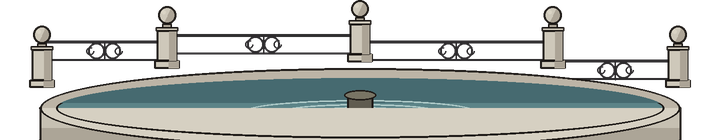
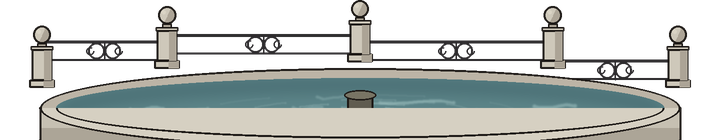
Dipinge l'acqua della fontana di Padova (#288 passo 3d)
Claude-Session: https://claude.ai/code/session_01Bf1d2rFJnp9n4pFf7DSqn4

diff --git a/src/shared/stages.ts b/src/shared/stages.ts
@@ -509,6 +509,9 @@ export const STAGES: Record<string, StageSpec> = {
           bici: { file: "bici.png", frames: 4 },
           bus: { file: "bus.png", frames: 1 },
           tram: { file: "tram.png", frames: 1 },
+          // L'acqua della fontana (#288 passo 3d): lo zampillo a riposo e il getto acceso
+          zampillo: { file: "zampillo.png", frames: 6 },
+          getto: { file: "getto.png", frames: 4 },
         },
         birds: { y: 40, parallax: 0.2, everyMs: 14000 },
         // Sulle punte delle lastre delle statue e sul cornicione del palazzo

diff --git a/tools/arene/vita.py b/tools/arene/vita.py
@@ -711,6 +711,84 @@ def traffic_sheets():
     sheet([tram()], OUT, "tram.png")
 
 
+# --- l'acqua della fontana (#288 passo 3d): lo zampillo a riposo e il getto alto, dipinti e semitrasparenti ---
+FOAM = (244, 250, 250)
+AQUA = (196, 226, 228)
+
+
+def _water_column(q, cx, base, h, w, phase, seed):
+    """Una colonna d'acqua: filetti che ondeggiano, si gonfiano e si spezzano, il cuore più chiaro, la corona
+    che si apre in cima e ricade in filetti e gocce dentro una nebbiolina, e la schiuma irregolare dove l'acqua
+    torna nella vasca."""
+    rng = random.Random(seed)
+    col = q.mask()
+    for k in range(12):
+        u = (k / 11 - 0.5)
+        width = w * rng.uniform(0.05, 0.12)
+        for j in range(16):  # ogni filetto è fatto di tratti con lo spessore che cambia: l'acqua non è un tubo
+            v0, v1 = j / 16, (j + 1) / 16
+            if rng.random() < 0.08:
+                continue  # un filetto che si spezza
+            wob = math.sin(v0 * 11 + phase * math.tau + k * 1.3)
+            p0 = (cx + w * (0.5 - 0.25 * v0) * u + wob * 1.4, base - h * v0)
+            p1 = (cx + w * (0.5 - 0.25 * v1) * u + math.sin(v1 * 11 + phase * math.tau + k * 1.3) * 1.4, base - h * v1)
+            q.stroke(col, [p0, p1], width * (0.7 + 0.6 * abs(math.sin(v0 * 7 + k + phase * 5))))
+    q.fill(q.soften(col, 0.5), AQUA, 0.6)
+    core = q.mask()
+    for j in range(10):
+        v0, v1 = j / 10, (j + 1) / 10
+        q.stroke(core, [(cx - w * 0.04 + math.sin(v0 * 9 + phase * 6) * 0.8, base - h * v0), (cx - w * 0.04 + math.sin(v1 * 9 + phase * 6) * 0.8, base - h * v1)], w * (0.08 + 0.05 * math.sin(v0 * 13 + phase * 7)))
+    q.fill(q.soften(core, 0.8), FOAM, 0.9)
+    # la nebbiolina attorno alla colonna e alla corona
+    mist = q.mask()
+    q.ellipse(mist, cx - w * 0.9, base - h - 14, cx + w * 0.9, base - h + 22)
+    q.poly(mist, [(cx - w * 0.6, base), (cx + w * 0.6, base), (cx + w * 0.3, base - h), (cx - w * 0.3, base - h)])
+    q.fill(q.soften(mist, 6), (255, 255, 255), 0.22)
+    # la corona: si apre a ombrello e ricade, filetti che si assottigliano
+    for k in range(14):
+        side = -1 if k % 2 else 1
+        reach = w * rng.uniform(0.5, 1.0)
+        fall = h * rng.uniform(0.1, 0.32)
+        top = (cx + side * 1.5, base - h)
+        pts = bezier(top, (cx + side * reach * 0.4, base - h - 7), (cx + side * reach * 0.9, base - h - 3), (cx + side * reach, base - h + fall), 12)
+        upto = int(len(pts) * (0.5 + 0.5 * ((phase + k * 0.13) % 1.0)))
+        m = q.mask()
+        for j in range(upto - 1):
+            q.stroke(m, [pts[j], pts[j + 1]], 2.2 * (1 - j / len(pts)) + 0.5)
+        q.fill(q.soften(m, 0.35), FOAM, 0.85)
+    for k in range(int(18 + w * 0.25)):  # gocce che cadono, un po' allungate
+        side = rng.choice((-1, 1))
+        u = (phase * 1.7 + k * 0.137) % 1.0
+        x = cx + side * w * rng.uniform(0.3, 0.95) * (0.4 + u * 0.6)
+        y = base - h + h * 0.9 * u * u
+        r = rng.uniform(0.6, 1.4) * (1 - 0.4 * u)
+        q.fill(q.soften(q.ellipse(q.mask(), x - r, y - r * 1.6, x + r, y + r * 1.2), 0.3), FOAM, 0.9 - 0.4 * u)
+    # la schiuma alla base: tante bolle unite e lisciate in una macchia irregolare
+    foam = q.mask()
+    for k in range(18):
+        fx = cx + rng.uniform(-w * 0.75, w * 0.75) + math.sin(phase * math.tau + k) * 1.2
+        r = rng.uniform(1.5, 4.0)
+        q.ellipse(foam, fx - r * 1.4, base - r * 1.6, fx + r * 1.4, base + 0.8)
+    foam = q.smooth(foam, 0.7)
+    q.fill(foam, FOAM, 0.85)
+    q.fill(q.inner_shadow(foam, 0, -1.5, 0.8), AQUA, 0.6)
+
+
+def fountain_water_sheets():
+    idle = []
+    for i in range(6):
+        q = Quadro(110, 96)
+        _water_column(q, 55, 92, 66, 42, i / 6, 3)
+        idle.append(q.result())
+    sheet(idle, OUT, "zampillo.png")
+    jet = []
+    for i in range(4):
+        q = Quadro(150, 350)
+        _water_column(q, 75, 344, 318, 70, i / 4, 7)
+        jet.append(q.result())
+    sheet(jet, OUT, "getto.png")
+
+
 if __name__ == "__main__":
     sheet([cloud(s) for s in range(1, 9)], OUT, "nuvole.png")
     sheet(gull_frames(), OUT, "gabbiano.png")
@@ -721,3 +799,4 @@ if __name__ == "__main__":
     umbrellas_sheet()
     bar_sheets()
     traffic_sheets()
+    fountain_water_sheets()

diff --git a/tools/arene/padova.py b/tools/arene/padova.py
@@ -1101,13 +1101,26 @@ def fountain_back():
     t.ellipse(cx - rx - 8, rim_y - ry - 5, cx + rx + 8, rim_y + ry + 5, fill=(214, 208, 194, 255), ink=True, width=1.1)
     t.chord(cx - rx - 8, rim_y - ry - 5, cx + rx + 8, rim_y + ry + 5, 180, 360, fill=(188, 180, 166, 255))
     t.ellipse(cx - rx - 8, rim_y - ry - 5, cx + rx + 8, rim_y + ry + 5, ink=True, width=1.1)
-    # l'acqua: verde acqua spento, l'ombra del bordo lontano, i riflessi chiari che il sole fa a strisce
-    t.ellipse(cx - rx, rim_y - ry, cx + rx, rim_y + ry, fill=WATER, ink=True, width=1.0)
-    t.chord(cx - rx, rim_y - ry, cx + rx, rim_y + ry, 190, 350, fill=WATER_S)
-    for k, (dx, dy, w) in enumerate(((-90, 4, 38), (-30, 8, 54), (40, 2, 30), (95, 7, 26), (-120, 9, 18))):
-        t.line([(cx + dx, rim_y + dy), (cx + dx + w, rim_y + dy)], fill=WATER_L, width=1.4 if k % 2 else 1.0)
-    for r_ in (24, 40, 58):  # cerchi che si allargano dove cade l'acqua
-        t.ellipse(cx - r_, rim_y + 2 - r_ * 0.1, cx + r_, rim_y + 2 + r_ * 0.1, ink=True, width=0.7, ink_col=(176, 204, 202, 255))
+    # l'acqua dipinta (#288): verde acqua spento, più scura sotto il bordo lontano, i riflessi del cielo spezzati
+    # dalle increspature, gli anelli d'onda interrotti attorno allo zampillo e la schiuma
+    from pittura import Quadro, wobble
+    q = Quadro(360, 70, origin=(780, 454))
+    wm = q.ellipse(q.mask(), cx - rx, rim_y - ry, cx + rx, rim_y + ry)
+    q.fill(wm, WATER)
+    q.fill(q.inner_shadow(wm, 0, 7, 3.5), WATER_S, 0.9)
+    rng = rand(61)
+    for k in range(16):  # riflessi a pennellate orizzontali, interrotte
+        y = rim_y - ry * 0.4 + rng.uniform(0, ry * 1.2)
+        x0 = cx + rng.uniform(-rx * 0.85, rx * 0.6)
+        ln = rng.uniform(10, 40)
+        pts = wobble([(x0 + ln * j / 6, y + math.sin(j) * 0.6) for j in range(7)], 0.5, k, closed=False)
+        q.fill(q.intersect(q.soften(q.stroke(q.mask(), pts, rng.uniform(0.8, 1.8)), 0.4), wm), WATER_L, rng.uniform(0.35, 0.8))
+    for r_ in (22, 38, 56, 78):  # anelli d'onda: archi spezzati, non cerchi
+        for j in range(6):
+            a0 = j / 6 * math.tau + r_ * 0.1
+            arc = [(cx + r_ * math.cos(a0 + i * 0.12), rim_y + 2 + r_ * 0.11 * math.sin(a0 + i * 0.12)) for i in range(5)]
+            q.fill(q.intersect(q.soften(q.stroke(q.mask(), arc, 0.7), 0.3), wm), (184, 212, 210), 0.5 - r_ / 200)
+    t.img.alpha_composite(q.img)
     # il bocchettone al centro, di bronzo scuro
     t.rect(cx - 6, rim_y - 6, cx + 6, rim_y + 2, fill=(96, 92, 80, 255), ink=True, width=0.9)
     t.ellipse(cx - 8, rim_y - 9, cx + 8, rim_y - 4, fill=(120, 116, 100, 255), ink=True, width=0.8)

diff --git a/docs/arene.md b/docs/arene.md
@@ -288,7 +288,7 @@ Facoltativo, solo grafica: elementi animati che fanno sembrare il posto abitato.
 | `bar: { x, y, parallax, tables, spacing }` | i tavolini di un bar (#278), da `x` verso destra ogni `spacing`: due persone per tavolino che bevono lo spritz e ogni tanto brindano, gli ombrelloni, il cameriere col vassoio e di sera le lucine |
 | `daycycle.lightLayers: [{ file, parallax }]`, `daycycle.lightProps: [{ file, x, y, scale? }]` | luci della notte precise (#288): immagini con solo i vetri accesi, grandi e messe come lo strato (stessa `parallax`) o come la decorazione che illuminano. Si accendono al tramonto, senza la luce ambiente. Padova le genera insieme ai disegni (`*-luci.png`). I lampioni (`lamps`) si disegnano subito dopo il loro strato: alone, cono di luce e pozza a terra |
 | Luce del sole e della luna (#288) | nelle arene con `daycycle`, ombre a terra di lottatori e decorazioni, lunghe al tramonto, dalla parte opposta all'astro, e una luce calda (fredda di notte) dal suo lato (`godot/scripts/sun_light.gd`) |
-| `sheets: { nome: { file, frames, scale? } }` | fogli di fotogrammi dipinti (#288) al posto delle forme semplici: `nuvole` (una nuvola per fotogramma, colorata dalla luce del momento), `gabbiano` (lo stormo), `rondine` e `pipistrello` (gli uccelli vicini), `piccione` (2 fotogrammi fermo, 4 in volo). A 2x, rivolti a destra. Padova li dipinge con `tools/arene/vita.py`, sul motore pittorico `tools/arene/pittura.py`: sagome lisciate, ombre e luci morbide, grana a pennello |
+| `sheets: { nome: { file, frames, scale? } }` | fogli di fotogrammi dipinti (#288) al posto delle forme semplici: `nuvole` (una nuvola per fotogramma, colorata dalla luce del momento), `gabbiano` (lo stormo), `rondine` e `pipistrello` (gli uccelli vicini), `piccione` (2 fotogrammi fermo, 4 in volo); `passanti` (una riga per tipo, `rows`), `ombrelli`; `bar-tavolo`, `bar-seduti` (pose: sul tavolo, a metà, alla bocca, brindisi), `cameriere`; `auto` e `furgone` (un modello per fotogramma), `vespa`, `bici`, `bus`, `tram`; `zampillo` e `getto` per la fontana (un getto con `idle`). A 2x, rivolti a destra. Padova li dipinge con `tools/arene/vita.py`, sul motore pittorico `tools/arene/pittura.py`: sagome lisciate, ombre e luci morbide, grana a pennello |
 | `rain: { periodMs, rainMs, offsetMs? }` | pioggia solo grafica (#288): ogni `periodMs` piove per `rainMs`, senza trappole; i passanti aprono l'ombrello |
 | `outerWater: { y, highY?, flood? }` | acqua intorno all'arena, da `y` in giù, disegnata davanti a chi cade, con lo splash. Con `flood` (indice di una trappola con l'acqua alta) sale fino a `highY` insieme a lei. Le rive possono scendere fino all'acqua: l'arena non sembra sospesa nel vuoto |
 | `daycycle: { cycleMs, startAt?, lamps? }` | giorno e notte: un giro intero in `cycleMs` dall'inizio della partita, partendo da `startAt` (0 mezzogiorno, 0,25 tramonto, 0,5 mezzanotte, 0,75 alba). Di notte si vedono le stelle; i lampioni `{ x, y, parallax }` si accendono al tramonto e si spengono all'alba, le finestre `windows: [{ x, y, width, height }]` si accendono una alla volta. Con `sky: true` il cielo è vivo (#267): gradiente con i colori del momento (alba rosa, giorno azzurro, tramonto arancio e viola, notte blu), sole e luna che tramontano dietro gli strati, stelle e nuvole che scorrono; lo strato più lontano allora va disegnato con il cielo trasparente, solo le sagome. La luce del momento moltiplica strati, decorazioni, acqua e sfondo vivo, il palco solo un po' |
